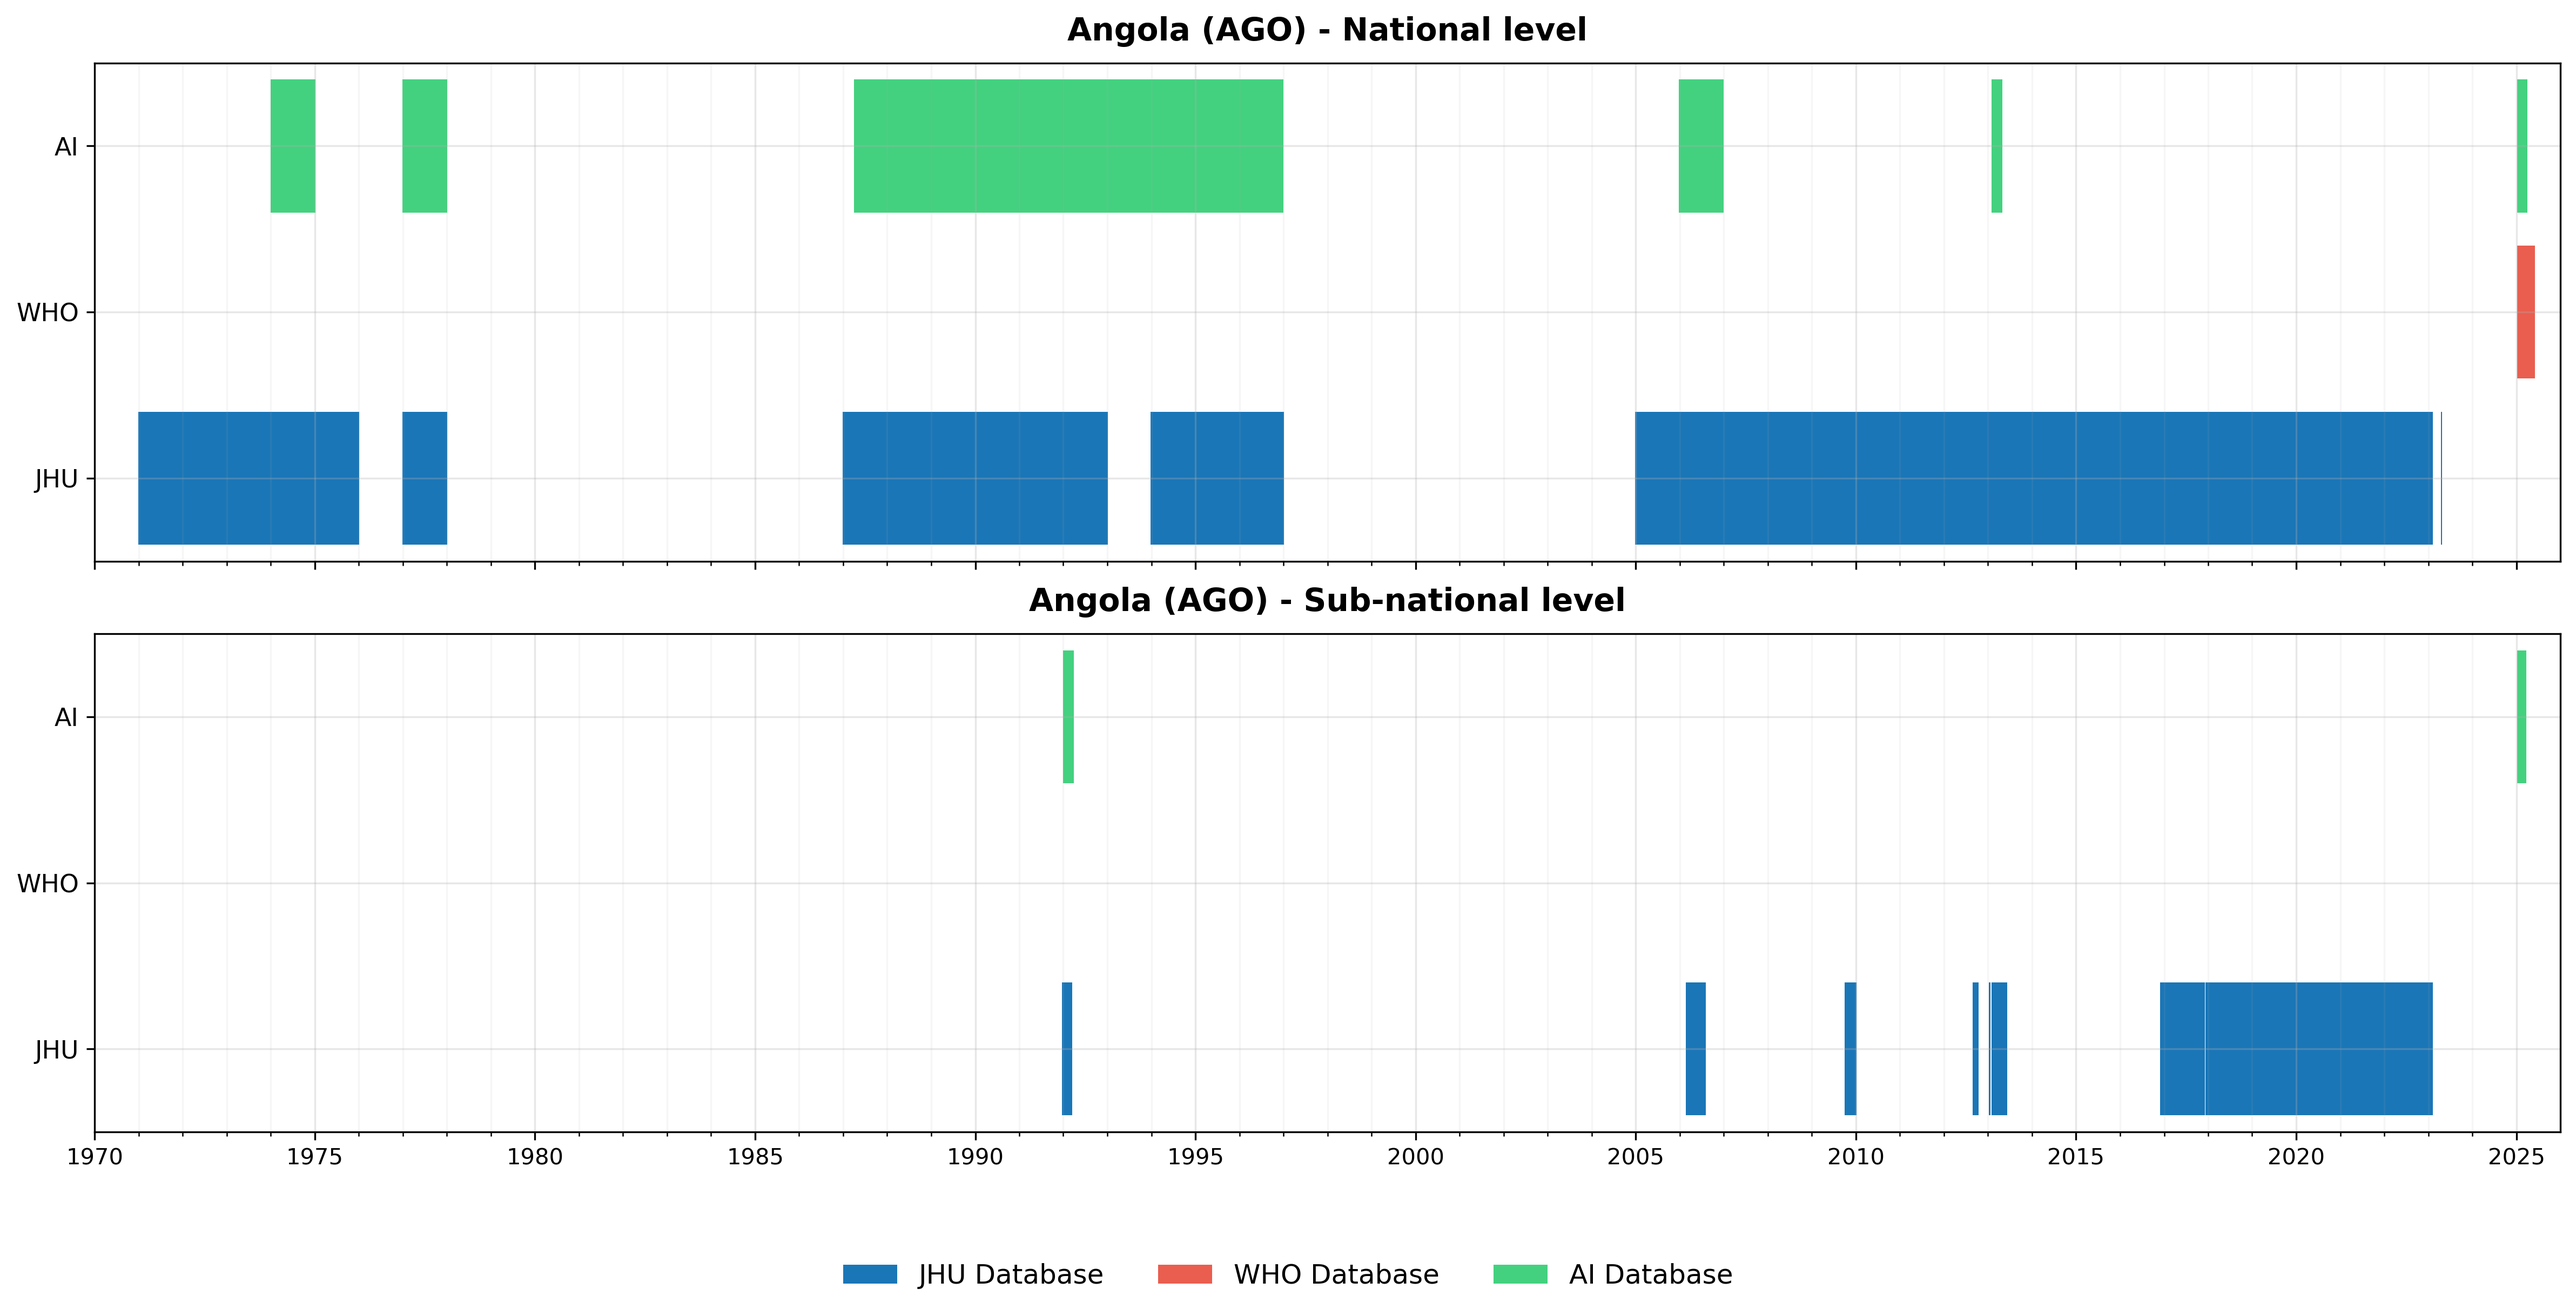
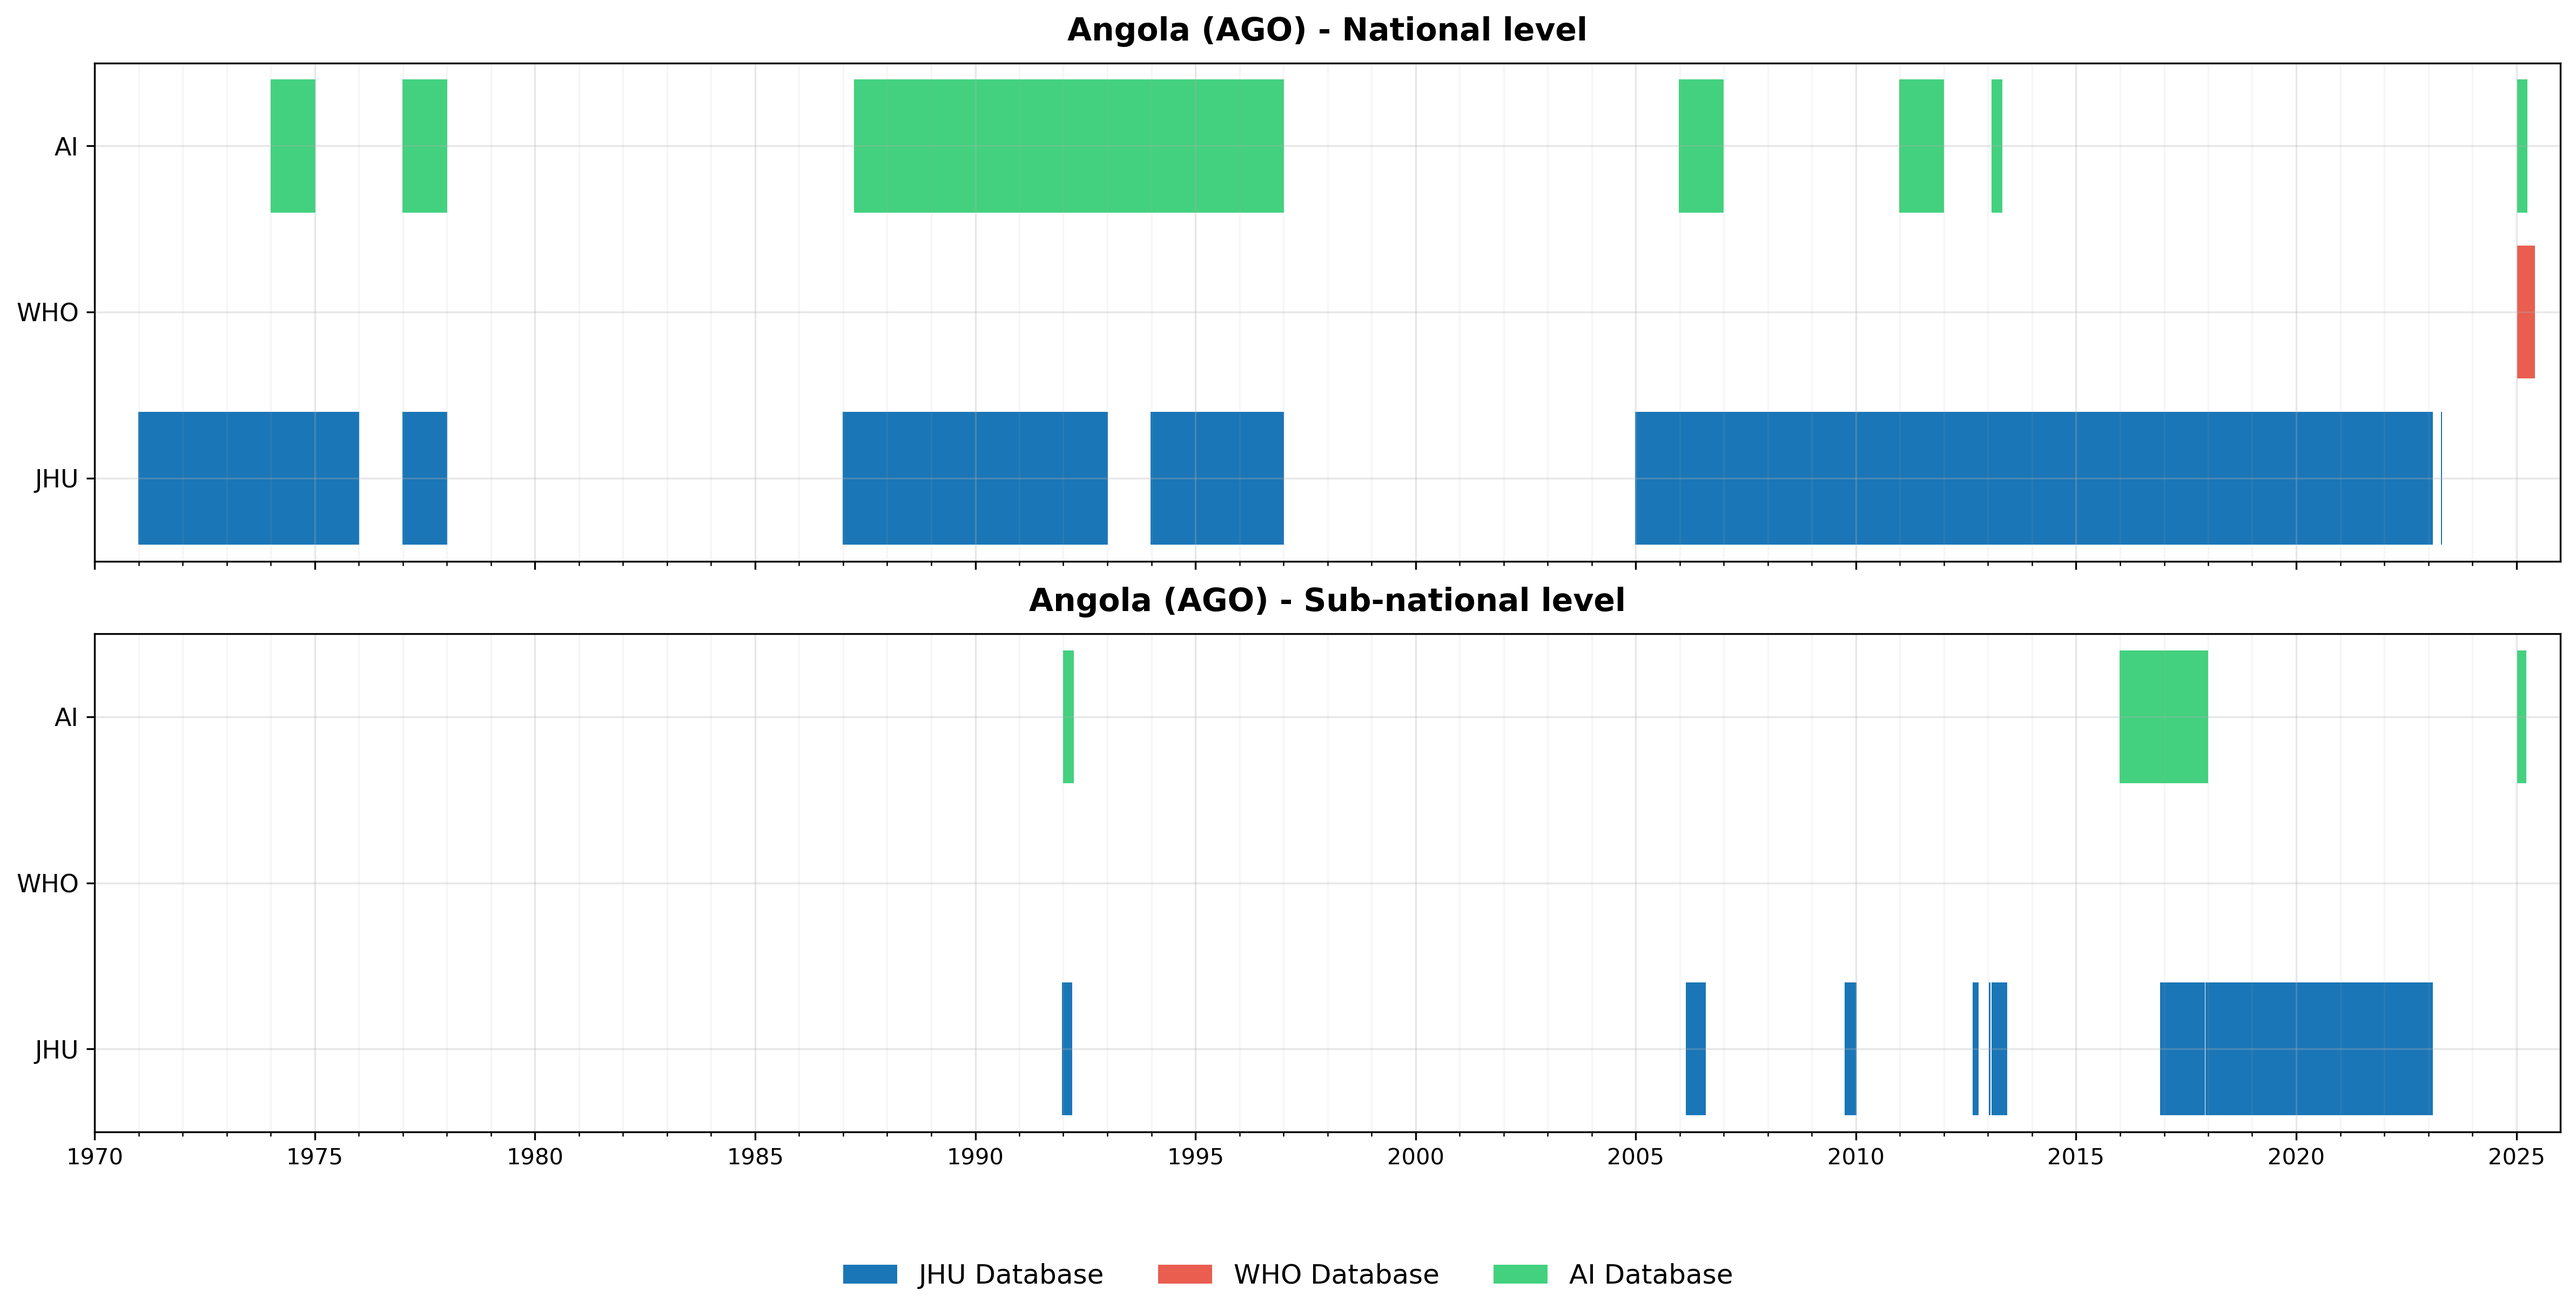
Auto-update dashboard data - 2025-08-05 14:46:13 - Generated with Claude Code

Changed region(s): [[0.8123, 0.4988, 0.8748, 0.5923], [0.7186, 0.0623, 0.7811, 0.1559]]

diff --git a/dashboard/dashboard.html b/dashboard/dashboard.html
@@ -1988,15 +1988,15 @@
                 "country": "Angola",
                 "iso": "AGO",
                 "status": "PENDING",
-                "datetime": "2025-08-05 14:41:53",
-                "sources": 9,
-                "observations": 14,
+                "datetime": "2025-08-05 14:45:33",
+                "sources": 12,
+                "observations": 24,
                 "date_range": "1974-2025",
-                "priority": "HIGH",
+                "priority": "MEDIUM",
                 "execution_time": 1,
                 "queries": 6,
                 "yield_pct": 166.7,
-                "notes": "Workflow in progress - 2 of 7 agents started; 14 AI observations collected; 9 sources documented"
+                "notes": "Workflow in progress - 2 of 7 agents started; 24 AI observations collected; 12 sources documented | Manual: Workflow in progress - 2 of 7 agents started; 14 AI observations collected; 9 sources documented"
         },
         {
                 "country": "Burundi",
